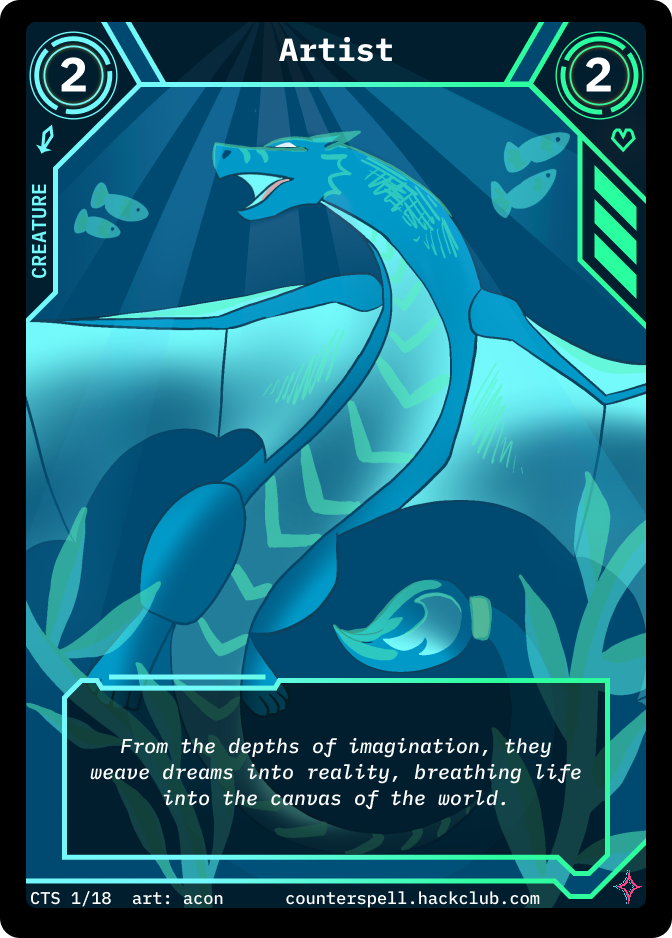
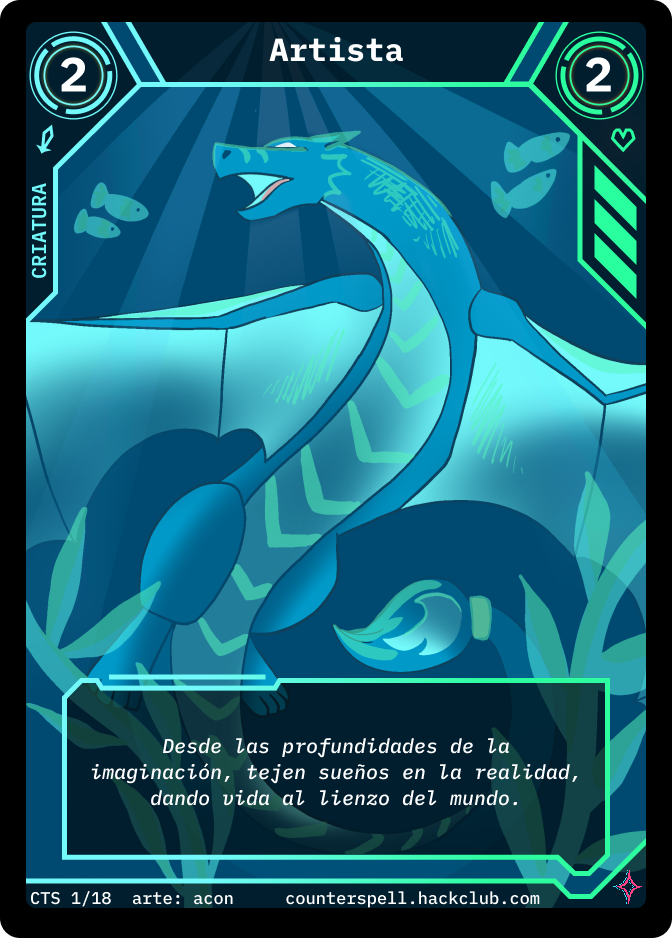
I've added the email for the faqs (for the spanish speakers) also I changed the cards images and translated them to spanish

diff --git a/components/Lima/Faq.js b/components/Lima/Faq.js
@@ -56,13 +56,12 @@ const faqData = [
   },
   {
     question: "¿Qué necesito llevar para el evento?",
-    answer: `Your laptop, charger, and an open mind! If your location is overnight, also bring toiletries, and a sleeping bag.`,
     answer: `Un portátil, cargador y ¡ganas de crear cosas! an open mind! Si tu evento es nocturno, no olvides llevar artículo de higiene personal y un saco de dormir.`,
   },
   {
     question: "Mis padres están preocupados por algo o no entienden algo",
     answer: `Estamos aquí para ayudar,
-    diles que escriban a <a href="mailto:counterspell@nosesisaid.com">counterspell@nosesisaid.com</a>(español) o <a href="mailto:counterspell@hackclub.com">counterspell@hackclub.com</a> (inglés)
+    diles que escriban a <a href="mailto:katherinekoo.pe@gmail.com">katherinekoo.pe@gmail.com</a>(español) o <a href="mailto:counterspell@hackclub.com">counterspell@hackclub.com</a> (inglés)
     y nos aseguraremos de responder todas sus preguntas.`,
   },
   {
@@ -71,7 +70,7 @@ const faqData = [
           <a href="https://hackclub.com/slack/">#counterspell</a>
           en el Slack de Hack Club o escríbenos un correo a 
           <a href="mailto:counterspell@hackclub.com">counterspell@hackclub.com</a>(inglés) o 
-          <a href="mailto:counterspell@nosesisaid.com">counterspell@nosesisaid.com</a>(español).
+          <a href="mailto:katherinekoo.pe@gmail.com">katherinekoo.pe@gmail.com</a>(español).
           Estamos listos para responder todas vuestras preguntas.`,
   },
 ];
